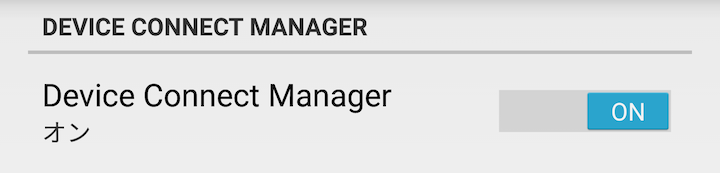
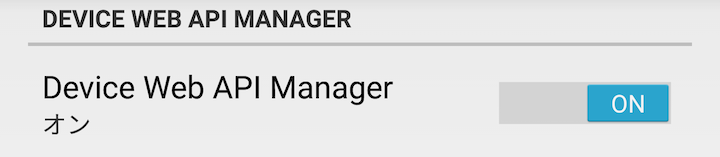
Device Web API Managerのヘルプ画面を修正

diff --git a/dConnectManager/dConnectManager/app/src/main/assets/html/help-dwa/summary/device_plugin_install.html b/dConnectManager/dConnectManager/app/src/main/assets/html/help-dwa/summary/device_plugin_install.html
@@ -1,0 +1,116 @@
+<!DOCTYPE html>
+<html>
+<head>
+    <meta name="viewport" content="width=device-width, initial-scale=1, minimum-scale=1, maximum-scale=1, user-scalable=no">
+    <meta http-equiv="Content-Type" content="text/html; charset=UTF-8">
+    <link rel="stylesheet" href="../css/main.css" type="text/css" />
+    <title>デバイスプラグインのインストールについて</title>
+</head>
+<body>
+<div class="heading">デバイスプラグインのインストールについて</div>
+<div class="content">
+    <p>下記のアイコンを押下することで、GooglePlayからデバイスプラグインをインストールすることができます。</p>
+    <table class="plugin">
+        <thead>
+            <tr class="plugin">
+                <th class="plugin">アイコン</th>
+                <th class="plugin">プラグイン名</th>
+                <th class="plugin">説明</th>
+            </tr>
+        </thead>
+        <tbody>
+            <tr class="plugin">
+                <td>
+                    <a href="market://details?id=org.deviceconnect.android.deviceplugin.host">
+                        <img class="icon" src="../images/ic_launcher_host.png">
+                    </a>
+                </td>
+                <td>HOSTデバイスプラグイン</td>
+                <td>スマホを操作するためのプラグインになります。</td>
+            </tr>
+            <tr class="plugin">
+                <td>
+                    <a href="market://details?id=org.deviceconnect.android.deviceplugin.hue">
+                        <img class="icon" src="../images/ic_launcher_hue.png">
+                    </a>
+                </td>
+                <td>Hueデバイスプラグイン</td>
+                <td>Light profileで、hueの色の変更やOn/Offができるようになります。</td>
+            </tr>
+            <tr class="plugin">
+                <td>
+                    <a href="market://details?id=org.deviceconnect.android.deviceplugin.heartrate">
+                        <img class="icon" src="../images/ic_launcher_heart_rate.png">
+                    </a>
+                </td>
+                <td>HeartRateデバイスプラグイン</td>
+                <td>Health profileで、BLE対応の心拍計から心拍数を取得できるようになります。</td>
+            </tr>
+            <tr class="plugin">
+                <td>
+                    <a href="market://details?id=org.deviceconnect.android.deviceplugin.sphero">
+                        <img class="icon" src="../images/ic_launcher_sphero.png">
+                    </a>
+                </td>
+                <td>Spheroデバイスプラグイン</td>
+                <td>
+                    <p>Light profileで、Spheroの色の変更やOn/Offができるようになります。</p>
+                    <p>また、Drive Controller profileで、Spheroの操作を行う事も可能になります。</p>
+                </td>
+            </tr>
+            <tr class="plugin">
+                <td>
+                    <a href="market://details?id=org.deviceconnect.android.deviceplugin.irkit">
+                        <img class="icon" src="../images/ic_launcher_irkit.png">
+                    </a>
+                </td>
+                <td>IRKitデバイスプラグイン</td>
+                <td>Remote Controller profileで、IRKitから赤外線の送受信ができるようになります。</td>
+            </tr>
+            <tr class="plugin">
+                <td>
+                    <a href="market://details?id=org.deviceconnect.android.deviceplugin.wear">
+                        <img class="icon" src="../images/ic_launcher_android_wear.png">
+                    </a>
+                </td>
+                <td>Android Wearデバイスプラグイン</td>
+                <td>Android Wearに対応した時計を操作するためのプラグインになります。</td>
+            </tr>
+            <tr class="plugin">
+                <td>
+                    <a href="market://details?id=org.deviceconnect.android.deviceplugin.sonycamera">
+                        <img class="icon" src="../images/ic_launcher_sony_camera.png">
+                    </a>
+                </td>
+                <td>Sony Cameraデバイスプラグイン</td>
+                <td>Sony Cameraを操作するためのプラグインになります。</td>
+            </tr>
+            <tr class="plugin">
+                <td>
+                    <a href="market://details?id=org.deviceconnect.android.deviceplugin.slackmessagehook">
+                        <img class="icon" src="../images/ic_launcher_slackmessagehook.png">
+                    </a>
+                </td>
+                <td>AWS IoTデバイスプラグイン</td>
+                <td>AWS IoT経由で遠隔にあるデバイスを操作します。</td>
+            </tr>
+            <tr class="plugin">
+                <td>
+                    <a href="market://details?id=org.deviceconnect.android.deviceplugin.awsiot">
+                        <img class="icon" src="../images/ic_launcher_awsiot.png">
+                    </a>
+                </td>
+                <td>AWS IoTデバイスプラグイン</td>
+                <td>AWS IoT経由で遠隔にあるデバイスを操作します。</td>
+            </tr>
+        </tbody>
+    </table>
+</div>
+
+<div class="link">
+    <a href="manager_start.html">前: Device Web API Managerの起動</a><br>
+    <a href="security.html">次: セキュリティについて</a><br>
+    <a href="manager.html">Device Web API Managerとは</a>
+</div>
+</body>
+</html>

diff --git a/dConnectManager/dConnectManager/app/src/main/assets/html/help-dwa/tutorial/host_install.html b/dConnectManager/dConnectManager/app/src/main/assets/html/help-dwa/tutorial/host_install.html
@@ -10,9 +10,17 @@
         <div class="heading">HOSTデバイスプラグインのインストール</div>
         <div class="content">
             <p>HOSTデバイスプラグインは、スマートフォンを操作するためのプラグインになります。</p>
-            <p>HOSTデバイスプラグインは、GitHub上に公開されているapkをインストールすることで追加することができます。</p>
-            <p></p>
-            <a href="market://details?id=org.deviceconnect.android.deviceplugin.host">HOSTをインストール</a>
+            <p>HOSTデバイスプラグインは、GooglePlay上に公開されているapkをインストールすることで追加することができます。</p>
+            <p>
+                <div class="install">
+                <a href="market://details?id=org.deviceconnect.android.deviceplugin.host">
+                    <div>
+                        <img class="icon" src="../images/ic_launcher_host.png">
+                    </div>
+                    HOSTをインストール
+                </a>
+                </div>
+            </p>
         </div>
         <div class="link">
             <a href="host_tutorial.html">次: HOSTデバイスプラグインを利用する</a><br>

diff --git a/dConnectManager/dConnectManager/app/src/main/assets/html/help-dwa/summary/security/security_access_token.html b/dConnectManager/dConnectManager/app/src/main/assets/html/help-dwa/summary/security/security_access_token.html
@@ -17,11 +17,11 @@
 <div class="content">
     <p>
         Local OAuthでユーザから認可されたアプリのアクセストークンを管理します。<br>
-        アクセストークンが登録されているアプリは、Device Connect Managerにアクセスすることができます。
+        アクセストークンが登録されているアプリは、Device Web API Managerにアクセスすることができます。
     </p>
     <p>
         各リストの右にある×を押下することで、アクセストークンを削除することができます。<br>
-        アクセストークンが削除した場合には、アプリがDevice Connect Managerにアクセスしようとした時に再度Local OAuthで認可が必要になります。
+        アクセストークンが削除した場合には、アプリがDevice Web API Managerにアクセスしようとした時に再度Local OAuthで認可が必要になります。
     </p>
     <div class="image">
         <img class="dialog" src="images/access_token_list.png">

diff --git a/dConnectManager/dConnectManager/app/src/main/assets/html/help-dwa/summary/security/security_external_ip.html b/dConnectManager/dConnectManager/app/src/main/assets/html/help-dwa/summary/security/security_external_ip.html
@@ -12,8 +12,8 @@
     <div class="image">
         <img class="start" src="images/security_external_ip.png">
     </div>
-    <p>外部IPを許可することで、同じLAN内にいる端末からDevice Connect Managerにアクセスすることができるようになります。</p>
-    <p>他の端末からDevice Connect Managerにアクセスできるようになりますので、使用には十分に注意してください。</p>
+    <p>外部IPを許可することで、同じLAN内にいる端末からDevice Web API Managerにアクセスすることができるようになります。</p>
+    <p>他の端末からDevice Web API Managerにアクセスできるようになりますので、使用には十分に注意してください。</p>
 </div>
 <div class="link">
     <a href="security_ssl.html">前: SSLについて</a><br>

diff --git a/dConnectManager/dConnectManager/app/src/main/assets/html/help-dwa/css/main.css b/dConnectManager/dConnectManager/app/src/main/assets/html/help-dwa/css/main.css
@@ -14,6 +14,7 @@ div.content {
 
 div.link {
     margin: 32px 4px 4px 4px;
+    line-height: 160%;
 }
 
 button {
@@ -122,4 +123,33 @@ td.value select {
 }
 
 span.label {
+}
+
+div.install {
+    text-align: center;
+    margin-right: auto;
+    margin-left: auto
+    border-spacing: 12px;
+}
+
+img.icon {
+    width: 64px;
+    padding: 8px;
+}
+
+table.plugin {
+    border-collapse: collapse;
+    width: 100%;
+    margin-top: 12px;
+    margin-bottom: 12px;
+}
+
+th.plugin {
+    padding: 4px;
+}
+
+tr.plugin {
+    border-bottom: 1px #eee solid;
+    padding : 3px;
+    font-size: 80%;
 }

diff --git a/dConnectManager/dConnectManager/app/src/main/assets/html/help-dwa/summary/manager.html b/dConnectManager/dConnectManager/app/src/main/assets/html/help-dwa/summary/manager.html
@@ -19,6 +19,7 @@
         <ul>
             <li><a href="manager_start.html">Device Web API Managerの起動</a></li>
             <li><a href="device_plugin.html">デバイスプラグインについて</a></li>
+
             <li><a href="security.html">セキュリティについて</a></li>
             <li><a href="web_server.html">Webサーバについて</a></li>
         </ul>

diff --git a/dConnectManager/dConnectManager/app/src/main/assets/html/help-dwa/index.html b/dConnectManager/dConnectManager/app/src/main/assets/html/help-dwa/index.html
@@ -11,6 +11,7 @@
         <div class="content">
             <ul>
                 <li><a href="summary/manager.html">Device Web API Managerとは</a></li>
+                <li><a href="summary/device_plugin_install.html">デバイスプラグインのインストール</a></li>
             </ul>
             <div class="heading">チュートリアル</div>
             <ul>

diff --git a/dConnectManager/dConnectManager/app/src/main/assets/html/help-dwa/summary/security/security_websocket.html b/dConnectManager/dConnectManager/app/src/main/assets/html/help-dwa/summary/security/security_websocket.html
@@ -17,7 +17,7 @@
 <div class="heading">WebSocket一覧</div>
 <div class="content">
     <p>
-        Device Connect Managerに接続されているWebSocketを管理します。<br>
+        Device Web API Managerに接続されているWebSocketを管理します。<br>
     </p>
 </div>
 <div class="link">
